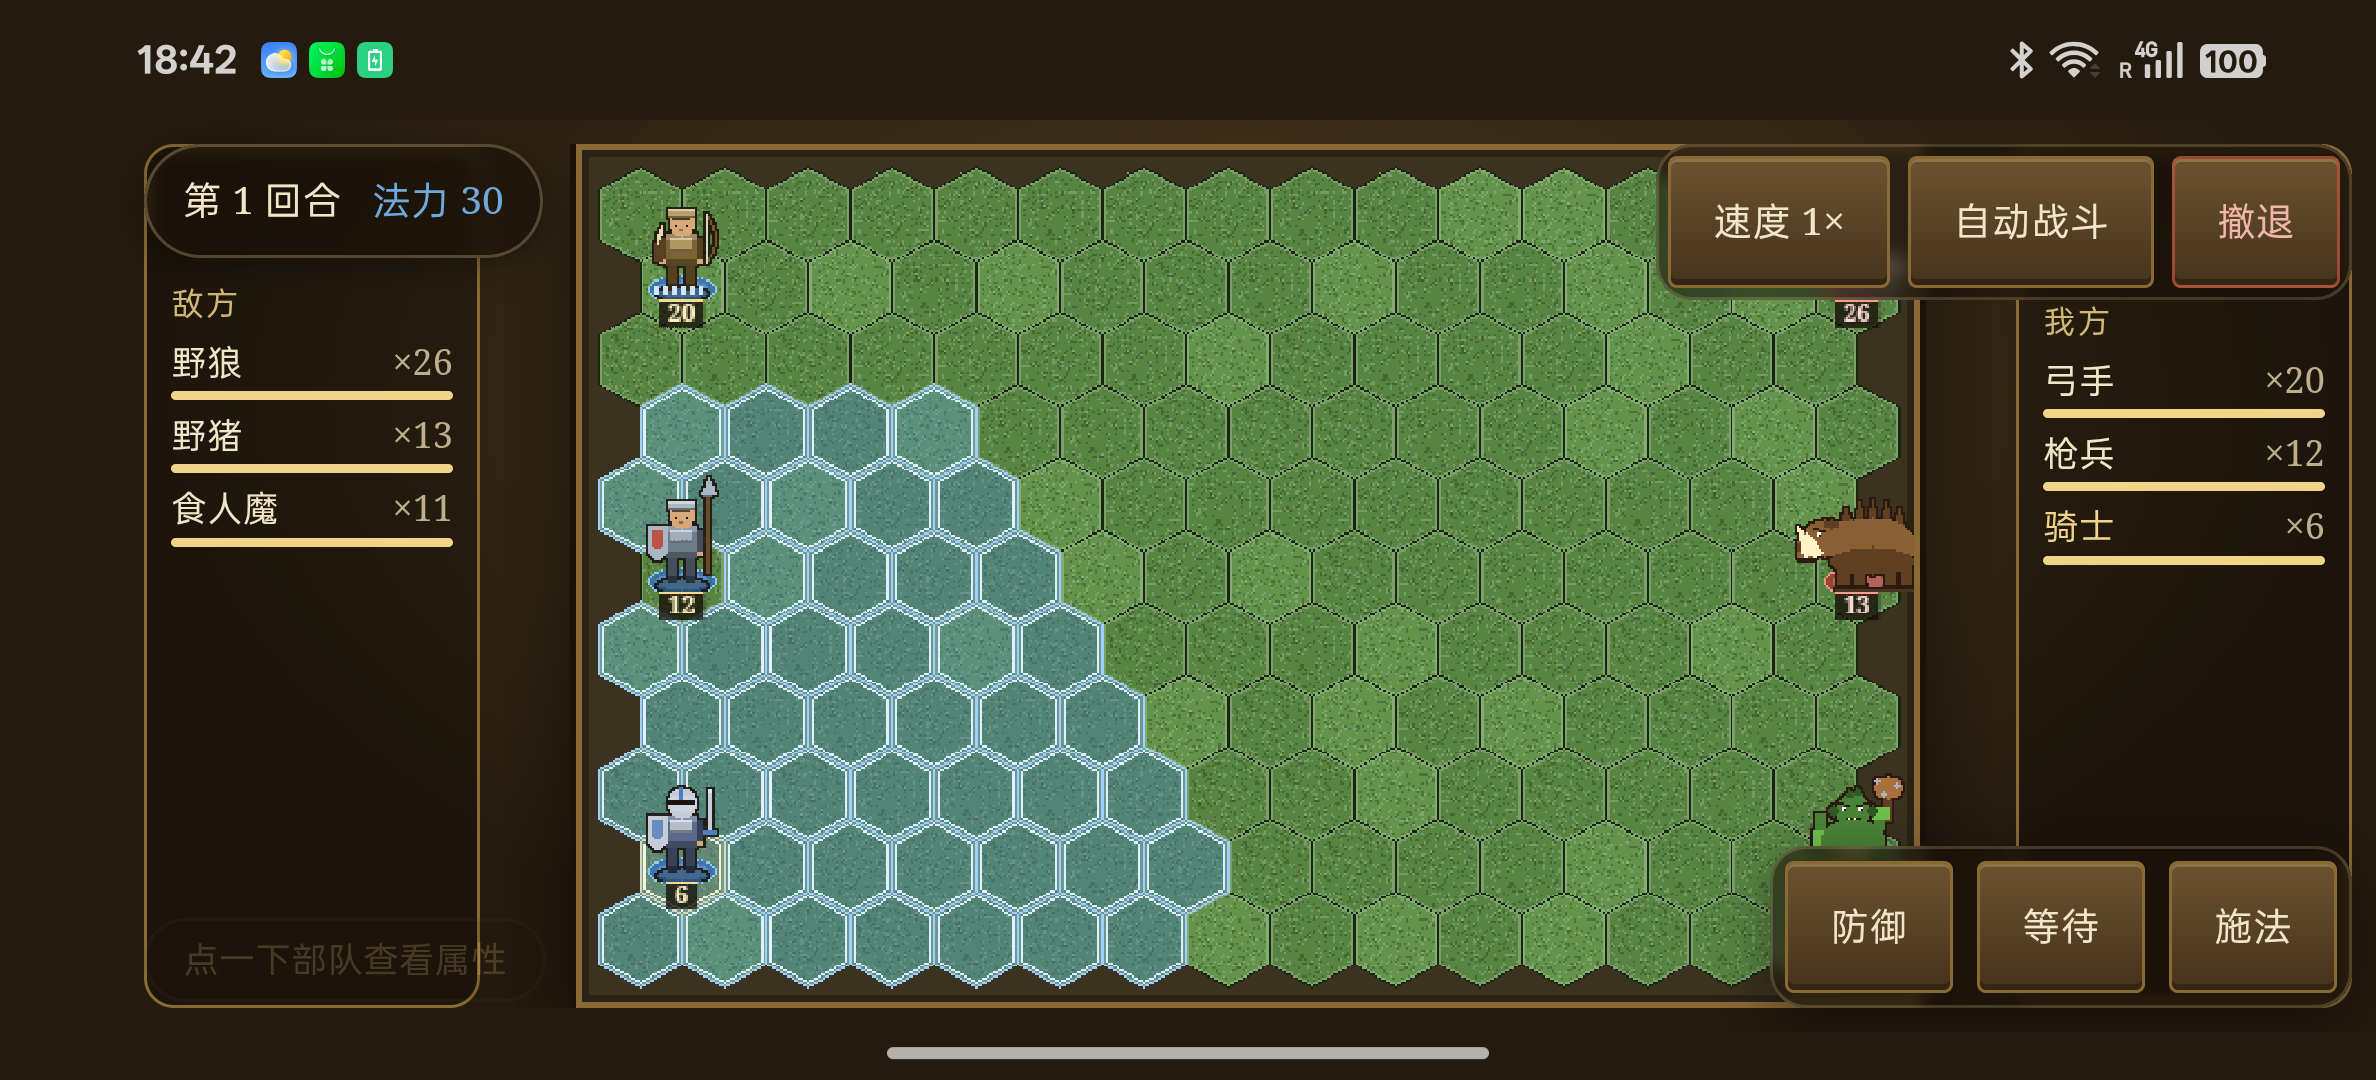
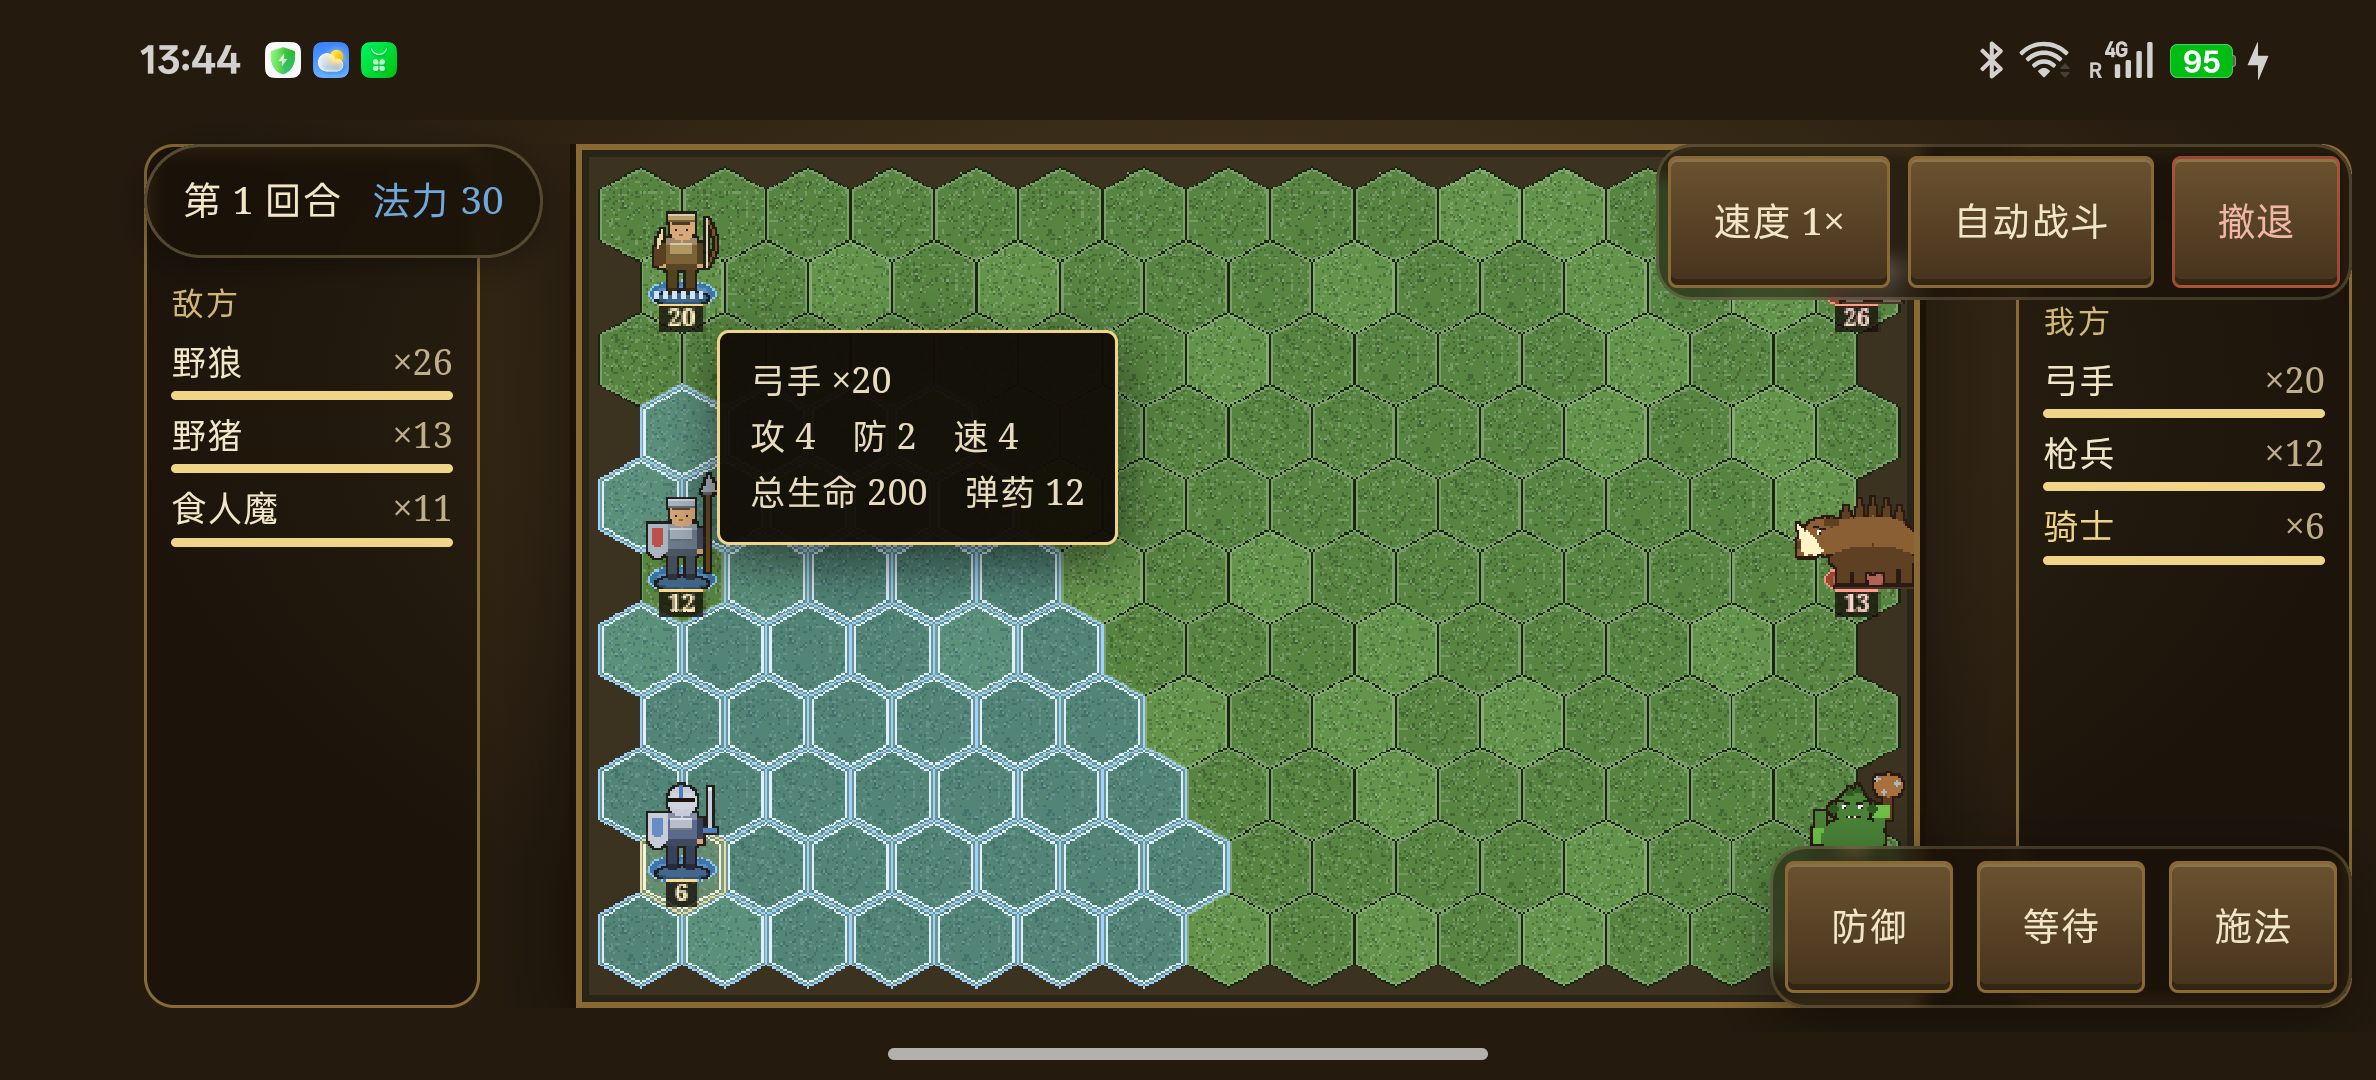
fix(battle): 两侧名单与场地同边（我方在左）+ 探针跨侧比对
真机截图抓到的：左列标题写着「敌方」，列的却是右边那批敌人，而 `side 0`（玩家）
永远画在场地左侧 ⇒ 蓝披风的弓手站在「敌方」标题下面。

- BattleScreen：列顺序与 `cols` 映射同时改回 `ourSide → 0 / foeSide → 1`
- `__battleScene.units[]` 增加 `name`（仅探针用；没有名字就只能比条数，3 打 3 时写反也相等）
- probe:touchtap 新增 3 条跨侧断言：左列=我方/右列=敌方 · 左列名单 = side 0 名字多重集 ·
  几何自证（max fx(side 0) < min fx(side 1)）
- 负向对照：把顺序与映射同时退回写反版 ⇒ 恰好 3 条红（几何那条仍绿，符合预期）；
  复原后 md5 a679e7c8… 逐字节相同，19 PASS / exit 0

门禁：tsc 0 · build 0 · probe:touchtap 0（19 PASS）
真机：APK 527edcd1… 已装，792×360 截图确认左右与场上一致

diff --git a/homm-web/src/ui/BattleScreen.ts b/homm-web/src/ui/BattleScreen.ts
@@ -231,7 +231,13 @@ export function openBattleScreen(parent: HTMLElement, opts: BattleOptions): void
   };
   const foeSide = mkSide('敌方');
   const ourSide = mkSide('我方');
-  body.append(foeSide.col, fieldWrap, ourSide.col);
+  /**
+   * 顺序 = **战场上的实际左右**：`side 0`（玩家，见 `hexCenter(side===0 ? col 0 : col W-1)`）
+   * 永远画在场地左侧 ⇒ 名单也必须「我方在左、敌方在右」。
+   * 首版写反了（左列挂着「敌方」、列的却是右侧那批敌人），真机截图一眼能看出
+   * 蓝披风的弓手站在「敌方」标题下面。类名/copy 都没错，错的是**列与边的对应**。
+   */
+  body.append(ourSide.col, fieldWrap, foeSide.col);
   root.appendChild(body);
 
   /**
@@ -314,7 +320,7 @@ export function openBattleScreen(parent: HTMLElement, opts: BattleOptions): void
       battle.units.map((u) => `${u.id}:${u.count}:${Math.round(poolOf(u))}`).join(',');
     if (sig === sideSig) return;
     sideSig = sig;
-    const cols: Array<[typeof foeSide, 0 | 1]> = [[foeSide, 1], [ourSide, 0]];
+    const cols: Array<[typeof foeSide, 0 | 1]> = [[ourSide, 0], [foeSide, 1]];
     for (const [col, side] of cols) {
       col.list.textContent = '';
       for (const u of battle.units) {
@@ -1481,6 +1487,9 @@ export function openBattleScreen(parent: HTMLElement, opts: BattleOptions): void
             const fr = renderer.lastFrame.get(u.id);
             return {
               id: u.id, unitTypeId: u.unitTypeId, side: u.side,
+              /* `name` 只给探针用：`probe:touchtap` 要断言「左列名单 ↔ 场地左侧那批单位」
+               * 是同一批人。没有名字就只能比条数，而"3 打 3"时写反了也照样相等（踩过）。 */
+              name: getUnit(u.unitTypeId).name,
               fx: p.x, fy: p.y,
               bx: bl ? bl.x : null, by: bl ? bl.y : null, bw: bl ? bl.w : null, bh: bl ? bl.h : null,
               frame: fr ? { name: fr.name, x: fr.x, y: fr.y, w: fr.w, h: fr.h } : null,
